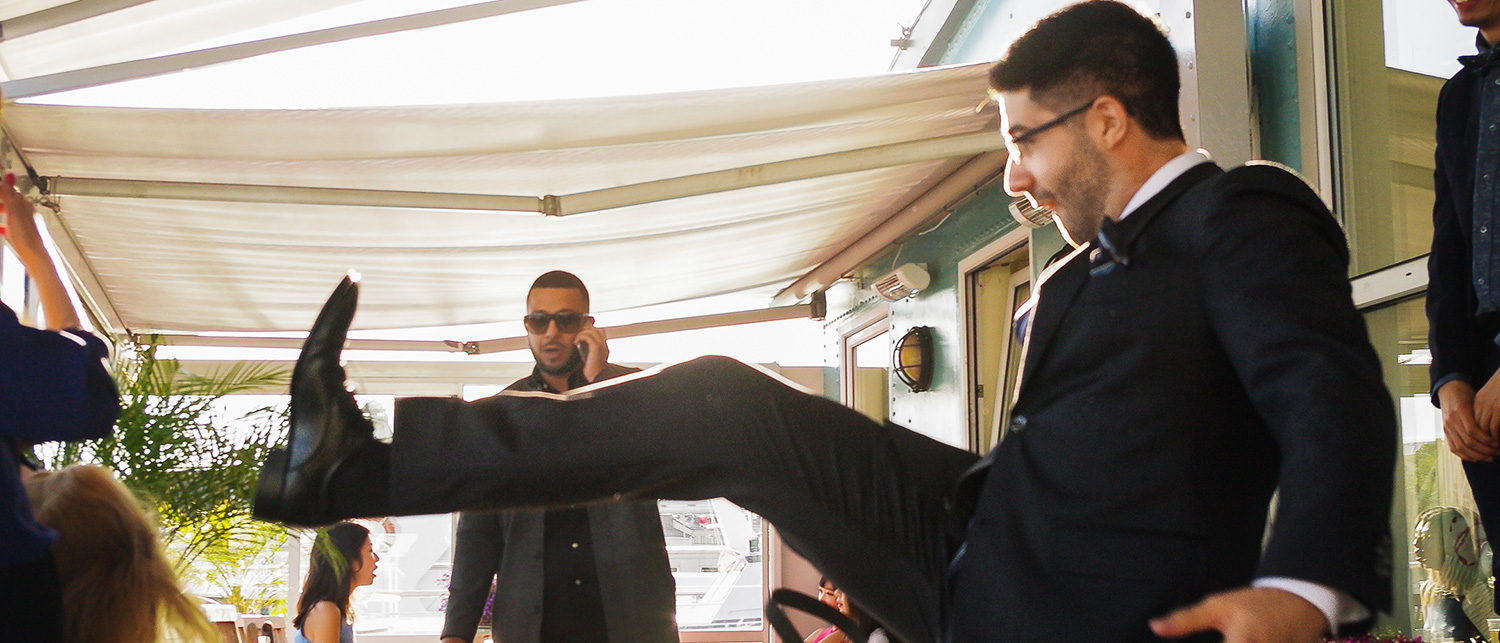
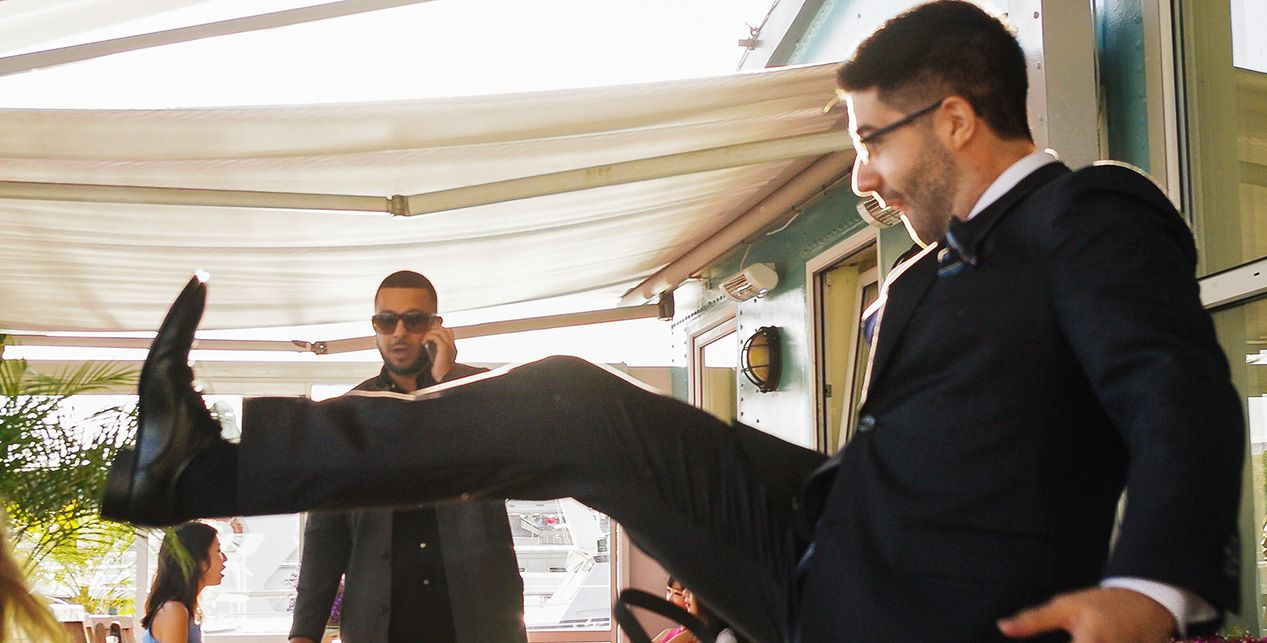
about me pic fix for mobile

diff --git a/css/main.css b/css/main.css
@@ -231,15 +231,6 @@ a.thumbnail.active {
 
 /* Hero image */
 
-@media only screen and (max-device-width: 480px) {
-	#about {
-	background-image: url("../img/me.jpg");
-	background-size: cover;
-	background-repeat: no-repeat;
-	background-position: right top;
-	}
-}
-
 .hero {
 	height: 350px;
 	max-width: 100%;
@@ -249,12 +240,12 @@ a.thumbnail.active {
 	background-image: url("../img/me.jpg");
 	background-size: cover;
 	background-repeat: no-repeat;
-	background-position: center center;
+	background-position: right center;
 }
 
 #p1 {
 	background-image: url("../img/thumb.jpg");
-	background-size: cover;
+	background-size: 100%;
 	background-repeat: no-repeat;
 	background-position: center center;
 	margin-bottom: 20px;
